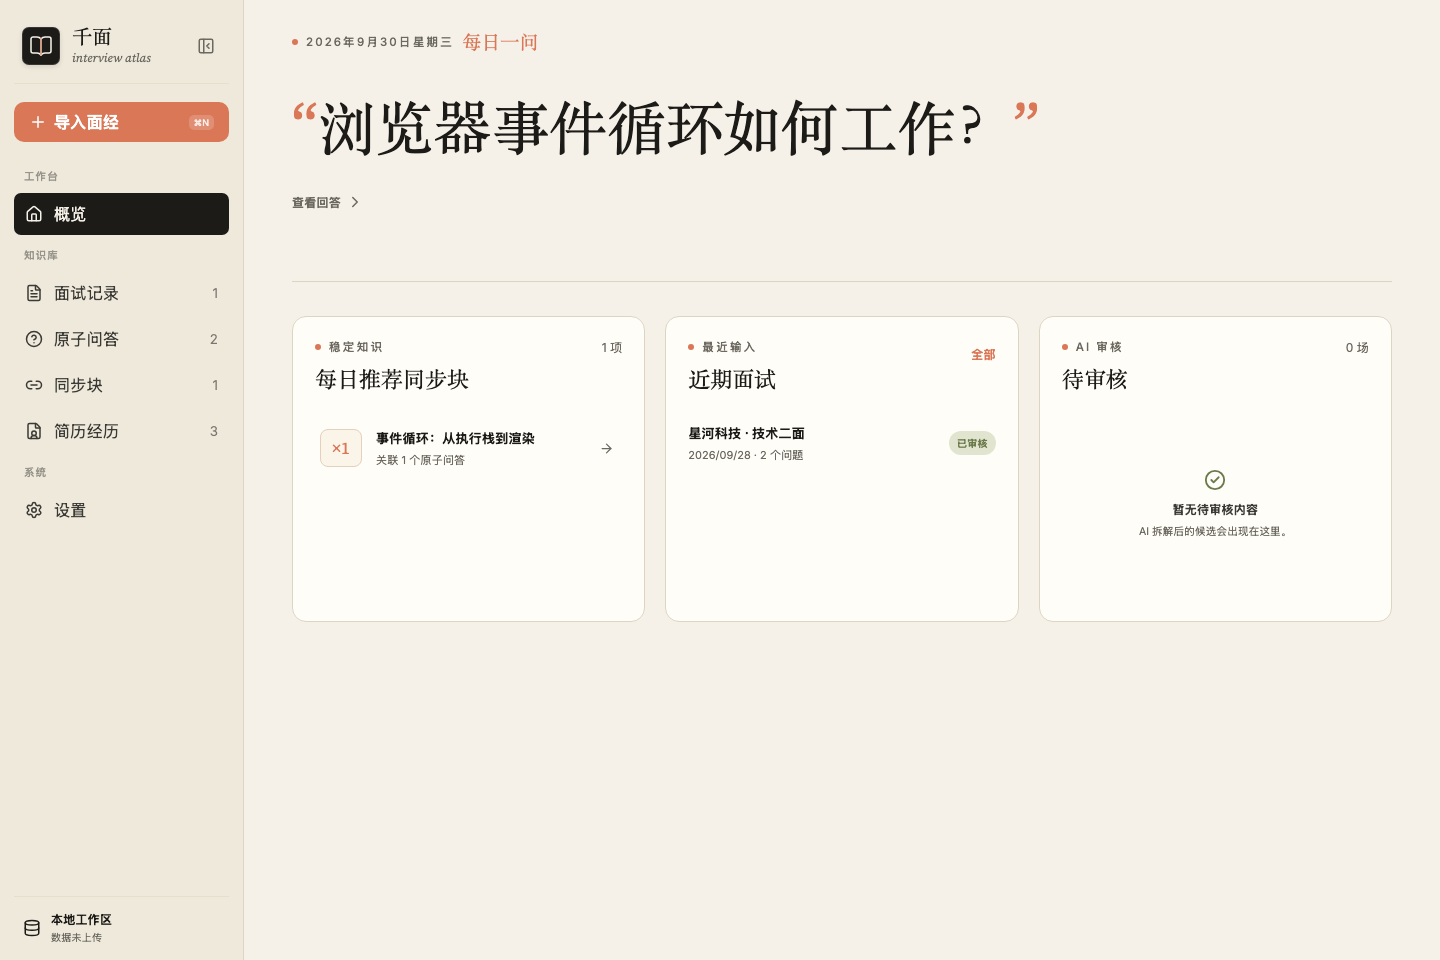
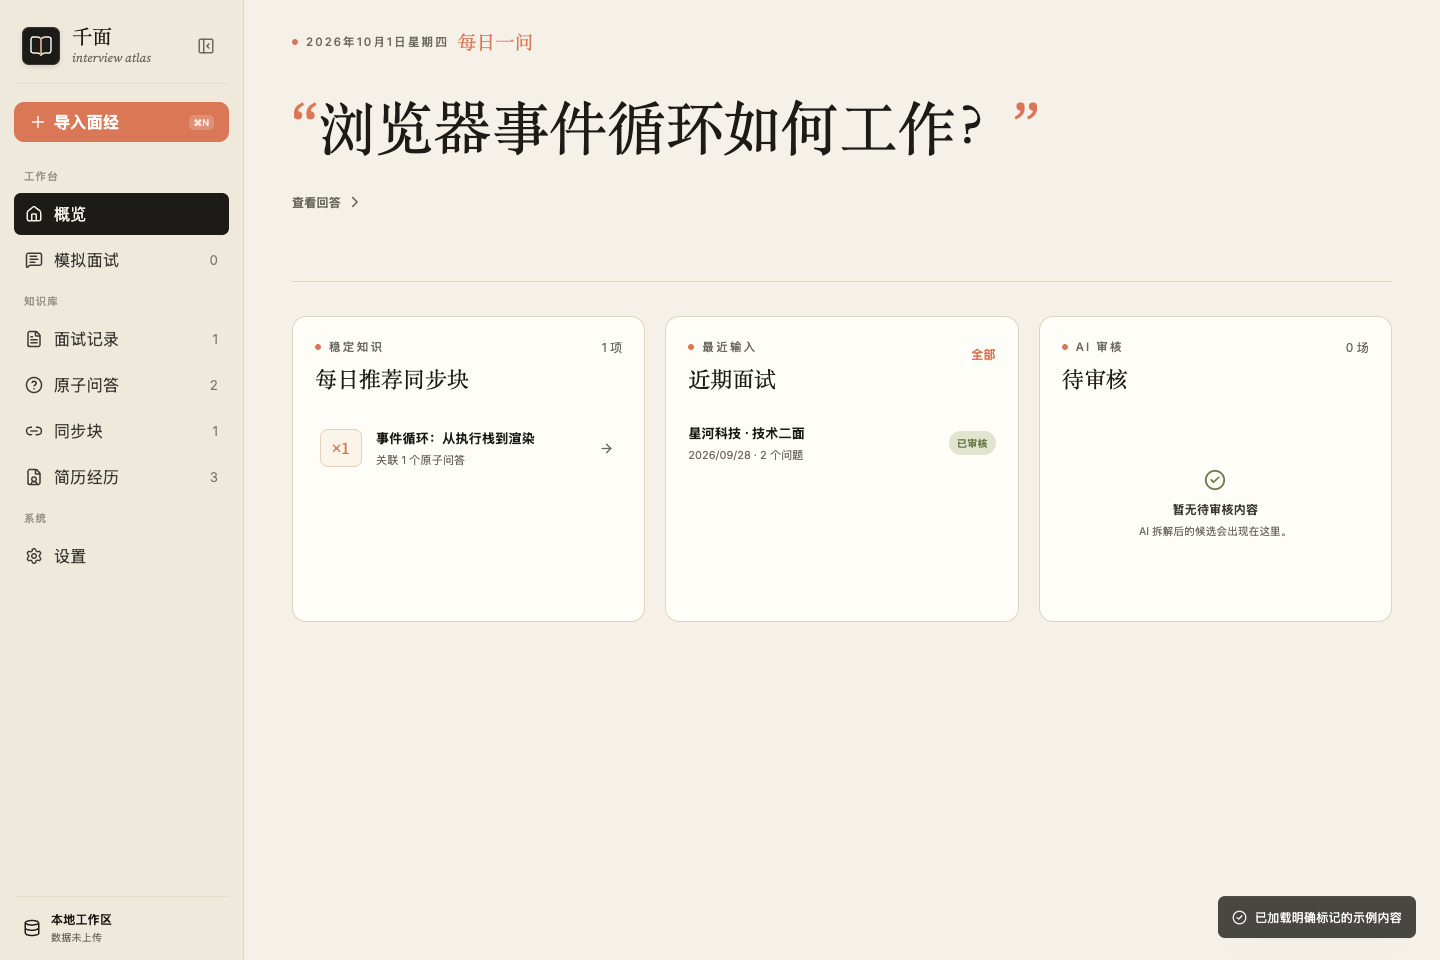
fix: refresh overview after workspace replacement

diff --git a/src/App.tsx b/src/App.tsx
@@ -2653,15 +2653,19 @@ export default function App() {
   const [mobileKnowledgeMenuOpen, setMobileKnowledgeMenuOpen] = useState(false);
   const [toast, setToast] = useState<string | null>(null);
   const [dailyQuestionId, setDailyQuestionId] = useState<string | null>(null);
-  const hasSelectedOverviewQuestion = useRef(false);
 
   useLayoutEffect(() => {
-    if (loading || hasSelectedOverviewQuestion.current) return;
+    if (
+      loading ||
+      (dailyQuestionId &&
+        workspace.questions.some((question) => question.id === dailyQuestionId))
+    ) {
+      return;
+    }
 
-    hasSelectedOverviewQuestion.current = true;
     const question = getRandomQuestion(workspace.questions);
     setDailyQuestionId(question?.id ?? null);
-  }, [loading, workspace.questions]);
+  }, [dailyQuestionId, loading, workspace.questions]);
 
   useEffect(() => {
     if (!mobileKnowledgeMenuOpen) return;
